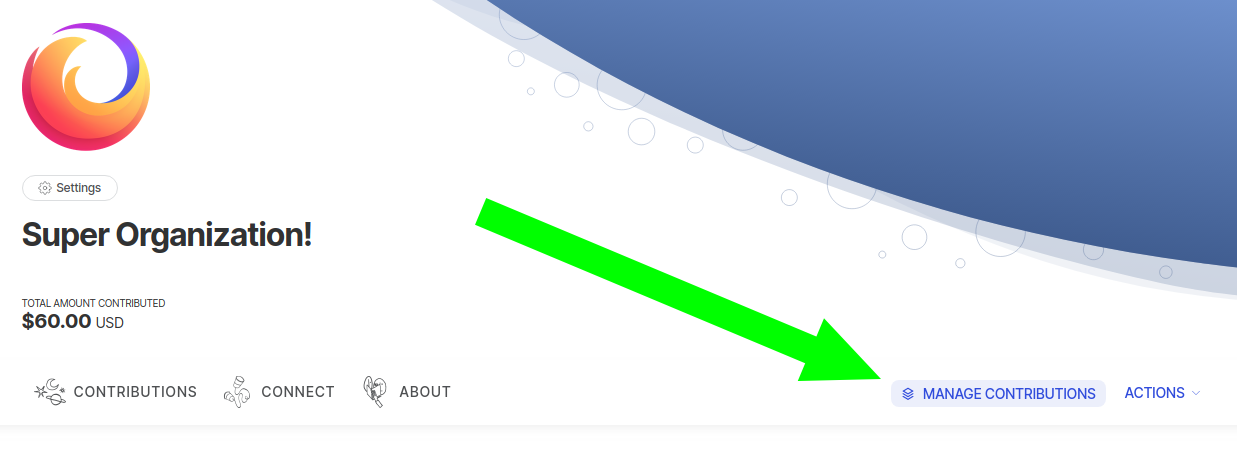
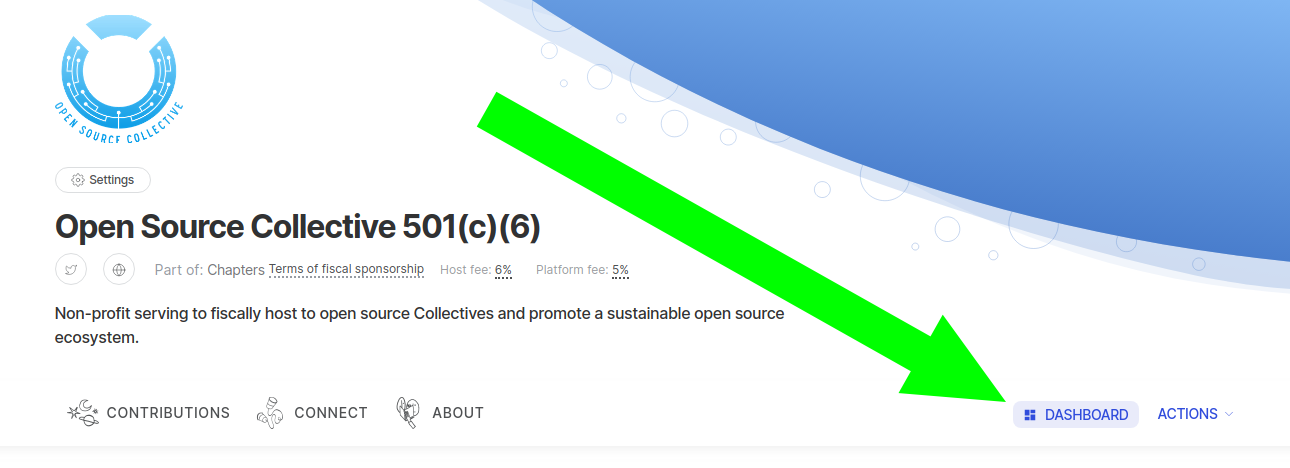
GitBook: [v2] 2 pages and 8 assets modified

diff --git a/fiscal-hosts/fiscal-host-dashboard.md b/fiscal-hosts/fiscal-host-dashboard.md
@@ -2,57 +2,23 @@
 
 **The Fiscal Host Dashboard is your one-stop-shop for seeing all the information and completing your actions as host admin.**
 
-## **FAQ**
+## How do  I get to the Host Dashboard?
 
-### How do  I get to the Host Dashboard?
+Click the **Dashboard** button on your host page, while logged in as host admin. Sometimes, this button can be nested inside the **Actions** menu.
 
-Click the button on your host page, while logged in as host admin.
+![](../.gitbook/assets/image%20%287%29.png)
 
-![](../.gitbook/assets/fiscal-hosts_fiscal-host-dashboard_dashboard-button_2019-11-25.png)
+## What can I do on the host dashboard?
 
-### What can I do on the host dashboard?
+### Expenses
 
-Here's what it looks like:
+![](../.gitbook/assets/dashboard.jpeg)
 
-![](../.gitbook/assets/screen-shot-2019-02-02-at-8.02.00-pm.png)
-
-#### Manage hosted Collectives and set custom fees
-
-You can access a list of all your hosted Collectives by clicking on the **Hosted Collectives** tab. With the first dropdown menu you can sort them by period of time you've hosted them from the most recent to oldest and oldest to most recent. You can also filter them by fee structure: by **global host fee** or **custom fee**.
-
-![](../.gitbook/assets/fiscal-host_fiscal-host-dashboard_manage_collectives_2020-08-12.png)
-
-To add a custom fee to a specific Collective, either find them listed on the page or look for them by name on the search bar. Once you find the right Collective, click on the **Fee structure** button \(the one with a set of lines\).
-
-![](../.gitbook/assets/fiscal-host_fiscal-host-dashboard_custom-fees_2020-08-12.gif)
-
-You will be prompted to either choose your global fee structure or to create a custom fee for this specific Collective. Don't forget to save your changes!
-
-#### Connect PayPal & refill balance
-
-PayPal allows you to pre-approve $2,000 at a time to be paid through the API. This is a security feature. This means after you've paid out $2,000 in expenses, you need to refill the balance. If you try to pay an expense and get an error about the PayPal balance, it's time to refill.
-
-When you click "refill balance" you will be prompted to log in to PayPal, and afterward you'll be taken back to your dashboard.
-
-You can see the connected PayPal account in the top right. This is the account expenses will be paid out of.
-
-If you manage multiple PayPal accounts, make sure it's the right one! If it's not correct, open PayPal in another tab and manually log out, then click "refill balance" and use credentials for the right account.
-
-#### Latest Orders
-
-Shows all incoming funds. You can filter by pending, paid, cancelled, and error.
-
-#### Latest Expenses
-
-Shows submitted expenses.
+**Filter**
 
 * **Pending:** expense has been submitted but not yet approved by the Collective's core contributors
 * **Approved:** Core Contributor has confirmed this expense is good to pay out
 * **Paid:** past expenses already complete
-
-#### Insufficient Balance
-
-There are not enough funds in the Collective to pay this expense. Many Collectives submit expenses in anticipation of future funding.
 
 #### Pay with PayPal
 
@@ -72,7 +38,17 @@ Host admins have permission to edit expenses at any time. For example, someone w
 
 If you click the title of an individual expense, you will go to that expense's page. There, you can see all details and read or add [comments](../expenses-and-getting-paid/expense-comments.md).
 
-### Payment Error Troubleshooting
+#### Connect PayPal & refill balance
+
+PayPal allows you to pre-approve $2,000 at a time to be paid through the API. This is a security feature. This means after you've paid out $2,000 in expenses, you need to refill the balance. If you try to pay an expense and get an error about the PayPal balance, it's time to refill.
+
+When you click "refill balance" you will be prompted to log in to PayPal, and afterward you'll be taken back to your dashboard.
+
+You can see the connected PayPal account in the top right. This is the account expenses will be paid out of.
+
+If you manage multiple PayPal accounts, make sure it's the right one! If it's not correct, open PayPal in another tab and manually log out, then click "refill balance" and use credentials for the right account.
+
+#### Payment Error Troubleshooting
 
 Payment errors will show in red next to the expense if they come up.
 
@@ -81,8 +57,37 @@ Common reasons for a payment to fail after clicking the "Pay with PayPal" button
 * Need to refill the pre-approval balance
   * Click the 'refill balance' button
 * Insufficient funds to cover fees
+  * There are not enough funds in the Collective to pay this expense. Many Collectives submit expenses in anticipation of future funding.
   * If a user submits an expense for 100% of the Collective's balance, there won't be enough to cover processing fees
   * Edit the expense total down to leave enough for the fees and inform the user by leaving a comment
 * User's PayPal account is restricted
   * Ask the user to log into PayPal and resolve the issue on their side
+
+### Manage hosted Collectives and set custom fees
+
+You can access a list of all your hosted Collectives by clicking on the **Hosted Collectives** tab. With the first dropdown menu you can sort them by period of time you've hosted them from the most recent to oldest and oldest to most recent. You can also filter them by fee structure: by **global host fee** or **custom fee**.
+
+![](../.gitbook/assets/fiscal-host_fiscal-host-dashboard_manage_collectives_2020-08-12.png)
+
+To add a custom fee to a specific Collective, either find them listed on the page or look for them by name on the search bar. Once you find the right Collective, click on the **Fee structure** button \(the one with a set of lines\).
+
+![](../.gitbook/assets/fiscal-host_fiscal-host-dashboard_custom-fees_2020-08-12.gif)
+
+You will be prompted to either choose your global fee structure or to create a custom fee for this specific Collective. Don't forget to save your changes!
+
+### Pending applications
+
+{% hint style="warning" %}
+This section needs additional documentation. You can contribute by editing this document on [https://github.com/opencollective/documentation/blob/v2/fiscal-hosts/fiscal-host-dashboard.md](https://github.com/opencollective/documentation/blob/v2/fiscal-hosts/fiscal-host-dashboard.md).
+{% endhint %}
+
+![](../.gitbook/assets/image%20%2815%29.png)
+
+### Financial contributions
+
+Shows all incoming contributions.
+
+![](../.gitbook/assets/image%20%285%29.png)
+
+### 
 

diff --git a/financial-contributors/organizations/README.md b/financial-contributors/organizations/README.md
@@ -17,7 +17,7 @@ An Organization is a profile that represents a company or entity instead of an i
 
 Go to your profile menu \(top right\) and look for the My Organizations section. Click "**+"**. 
 
-![User menu - click on &quot;+&quot; to create a new organization](../../.gitbook/assets/image%20%2810%29.png)
+![User menu - click on &quot;+&quot; to create a new organization](../../.gitbook/assets/image%20%2821%29.png)
 
 Once set up, you will be able to select your individual or organization profile when making a contribution.
 
@@ -33,7 +33,7 @@ Go through the process of contributing to a Collective, and you'll be able to cr
 
 Use the cog icon next to the organization that you want to edit.
 
-![](../../.gitbook/assets/image%20%285%29.png)
+![](../../.gitbook/assets/image%20%2810%29.png)
 
 
 
@@ -49,5 +49,5 @@ To access your Organization's contributions, go to the Organization's page and c
 Sometimes, the **`Manage contributions`** button can  be nested inside the **Actions** menu
 {% endhint %}
 
-![](../../.gitbook/assets/image%20%287%29.png)
+![](../../.gitbook/assets/image%20%2811%29.png)
 
